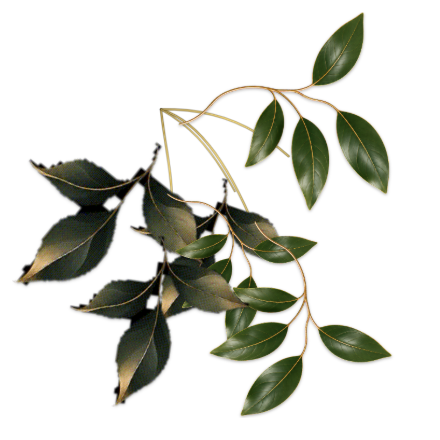
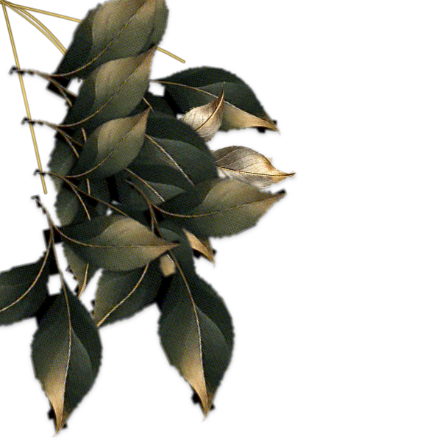
Branches grow from the frame and section boundaries

diff --git a/src/components/Ambient.jsx b/src/components/Ambient.jsx
@@ -52,8 +52,8 @@ export default function SectionDecor({ tone = 'light' }) {
       {tone === 'dark' ? (
         <>
           {SPOTS.map((p, i) => <span key={i} className="ambient__spot" style={{ left: `${p.x}%`, top: `${p.y}%`, width: p.s, height: p.s, animationDuration: `${p.d}s` }} />)}
-          <Flora corner="tr" size={210} offset={6} on={live} className="flora--edge" />
-          <Flora corner="bl" size={210} offset={6} on={live} delay={0.4} className="flora--edge flora--edge-br" />
+          <Flora corner="tr" size={210} offset={0} on={live} className="flora--edge" />
+          <Flora corner="bl" size={210} offset={0} on={live} delay={0.4} className="flora--edge flora--edge-br" />
           {live && <Petals />}
           {live && FALL.filter((_, i) => i % 3 !== 2).map((l, i) => (
             <Blossom key={i} className="ambient__leaf ambient__flower" variant={i % 2 ? 'gold' : 'olive'} size={l.s + 64} style={{ left: `${l.x}%`, '--dx': `${l.dx}px`, '--r': `${l.r}deg`, animationDuration: `${l.d}s`, animationDelay: `${l.t}s` }} />
@@ -61,8 +61,8 @@ export default function SectionDecor({ tone = 'light' }) {
         </>
       ) : (
         <>
-          <Flora corner="tl" size={220} offset={6} on={live} className="flora--edge" />
-          <Flora corner="br" size={220} offset={6} on={live} delay={0.4} className="flora--edge flora--edge-br" />
+          <Flora corner="tl" size={220} offset={0} on={live} className="flora--edge" />
+          <Flora corner="br" size={220} offset={0} on={live} delay={0.4} className="flora--edge flora--edge-br" />
           {live && <Petals />}
         </>
       )}

diff --git a/src/components/Flora.jsx b/src/components/Flora.jsx
@@ -2,7 +2,7 @@
 // baked from the vector source in FloraArt.jsx so the browser only moves flat pictures (cheap) instead of painting hundreds of shapes.
 const MIRROR = { tl: 'none', tr: 'scaleX(-1)', br: 'scale(-1,-1)', bl: 'scaleY(-1)' };
 const ORIGIN = { tl: '0 0', tr: '100% 0', br: '100% 100%', bl: '0 100%' };
-const V = '11'; // bump when the baked art changes (the server caches images for a year)
+const V = '12'; // bump when the baked art changes (the server caches images for a year)
 const LAYERS = [[`/decor/flora-1.png?v=${V}`, 0], [`/decor/flora-2.png?v=${V}`, 0.5], [`/decor/flora-3.png?v=${V}`, 1]];
 
 /** A bouquet for a frame or section corner. Layers bloom in turn (CSS) once `on`, then the bouquet sways. */

diff --git a/src/components/DecorFrame.jsx b/src/components/DecorFrame.jsx
@@ -77,7 +77,7 @@ export default function DecorFrame({ inset = 12, radii = [2, 2, 2, 2], corners =
     for (let i = 0; i < nx; i += 1) { const x = margin + ((w - margin * 2) * (i + 0.5)) / nx; spots.push({ x, y: 0 }, { x, y: h }); }
     for (let i = 0; i < ny; i += 1) { const y = margin + ((h - margin * 2) * (i + 0.5)) / ny; spots.push({ x: 0, y }, { x: w, y }); }
   }
-  const floraOffset = 2;
+  const floraOffset = 0;
   const on = inView || !!reduce;
   const line = (d, inner) => (reduce ? { duration: 0 } : { duration: inner ? 1.7 : 1.5, delay: d, ease: EASE });
 
